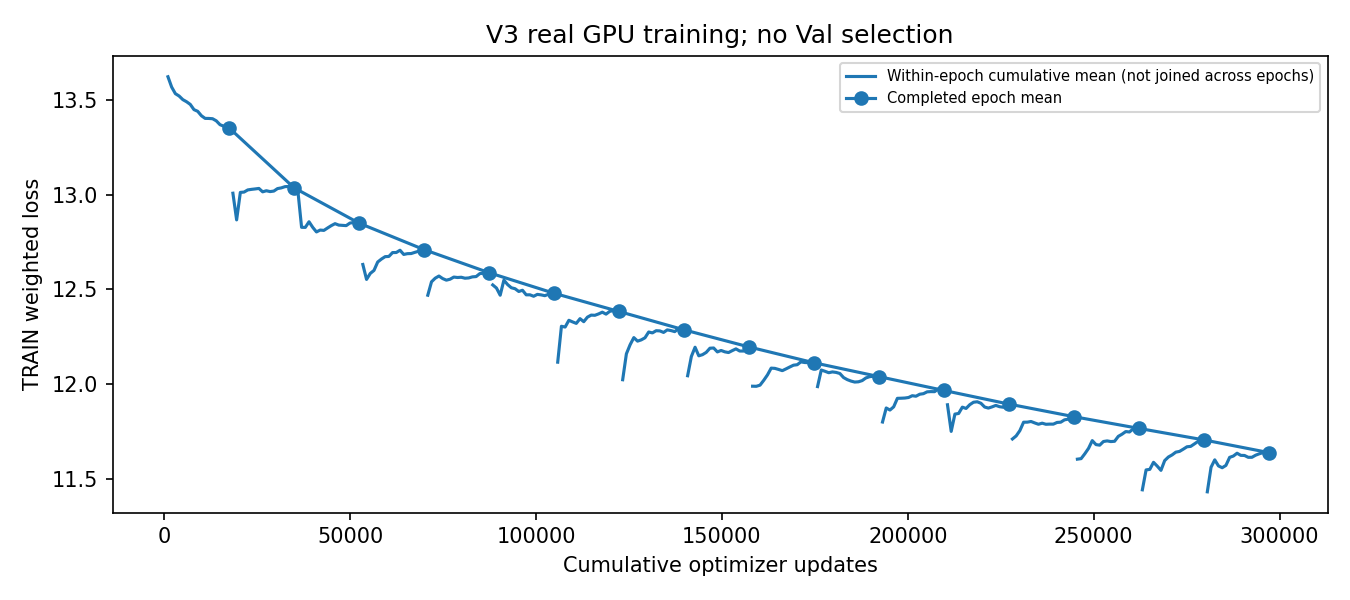
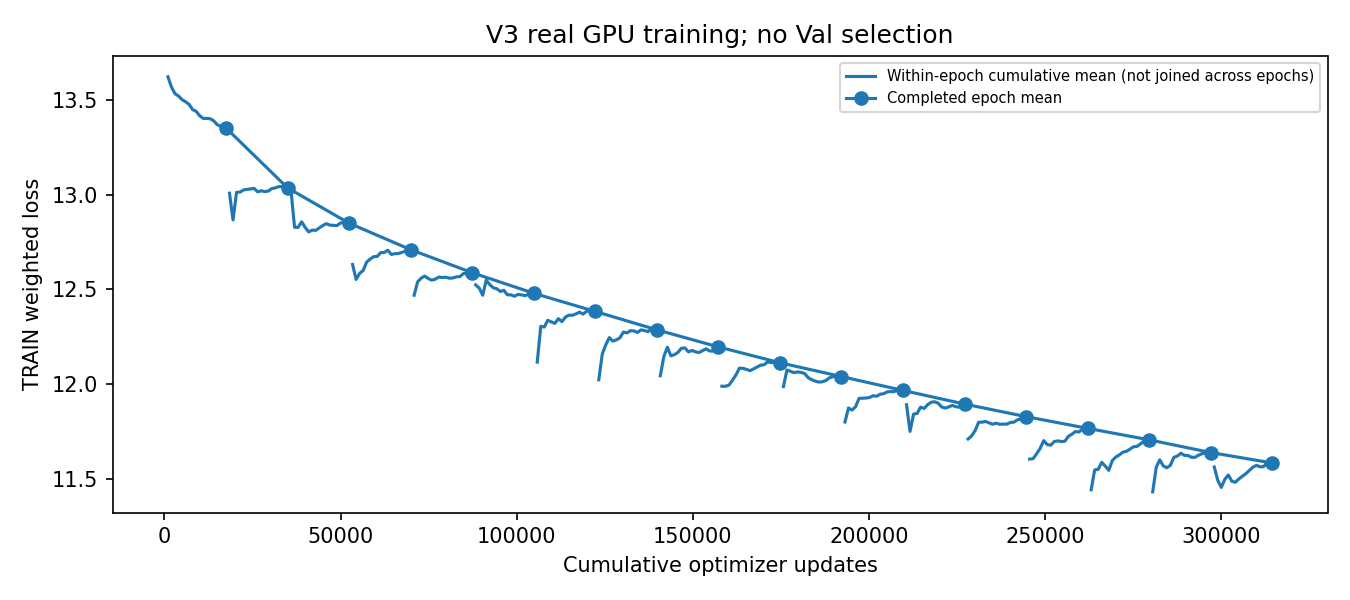
reports(v3): record eighteenth epoch near training time limit

diff --git a/reports/unified_pgvb/v3_full_training/REPORT_zh.md b/reports/unified_pgvb/v3_full_training/REPORT_zh.md
@@ -2,7 +2,7 @@
 
 完整TRAIN输入21878条；本阶段拟合17473条、物理目标留出4405条，物理分组重叠0。初始化V2曾使用TRAIN，内部留出不是完全未见泛化。
 
-当前已完成完整Epoch：17；训练结束：False。
+当前已完成完整Epoch：18；训练结束：False。
 
 Geometry和轻量视觉模块训练，BERT/SigLIP2冻结并读取缓存；seed42，原权重保留。四小时累计训练预算，至少三轮后连续两轮相对Loss改善<0.5%提前停止。未修改Stop=0.3、1mm守卫或Horizon。
 
@@ -27,6 +27,7 @@ Geometry和轻量视觉模块训练，BERT/SigLIP2冻结并读取缓存；seed42
 |15|17473|11.766001|778.04|0.144|
 |16|17473|11.705238|775.96|0.144|
 |17|17473|11.638285|766.03|0.144|
+|18|17473|11.583192|772.73|0.144|
 
 ![训练Loss](training_loss.png)
 ![Loss分量](loss_components.png)
